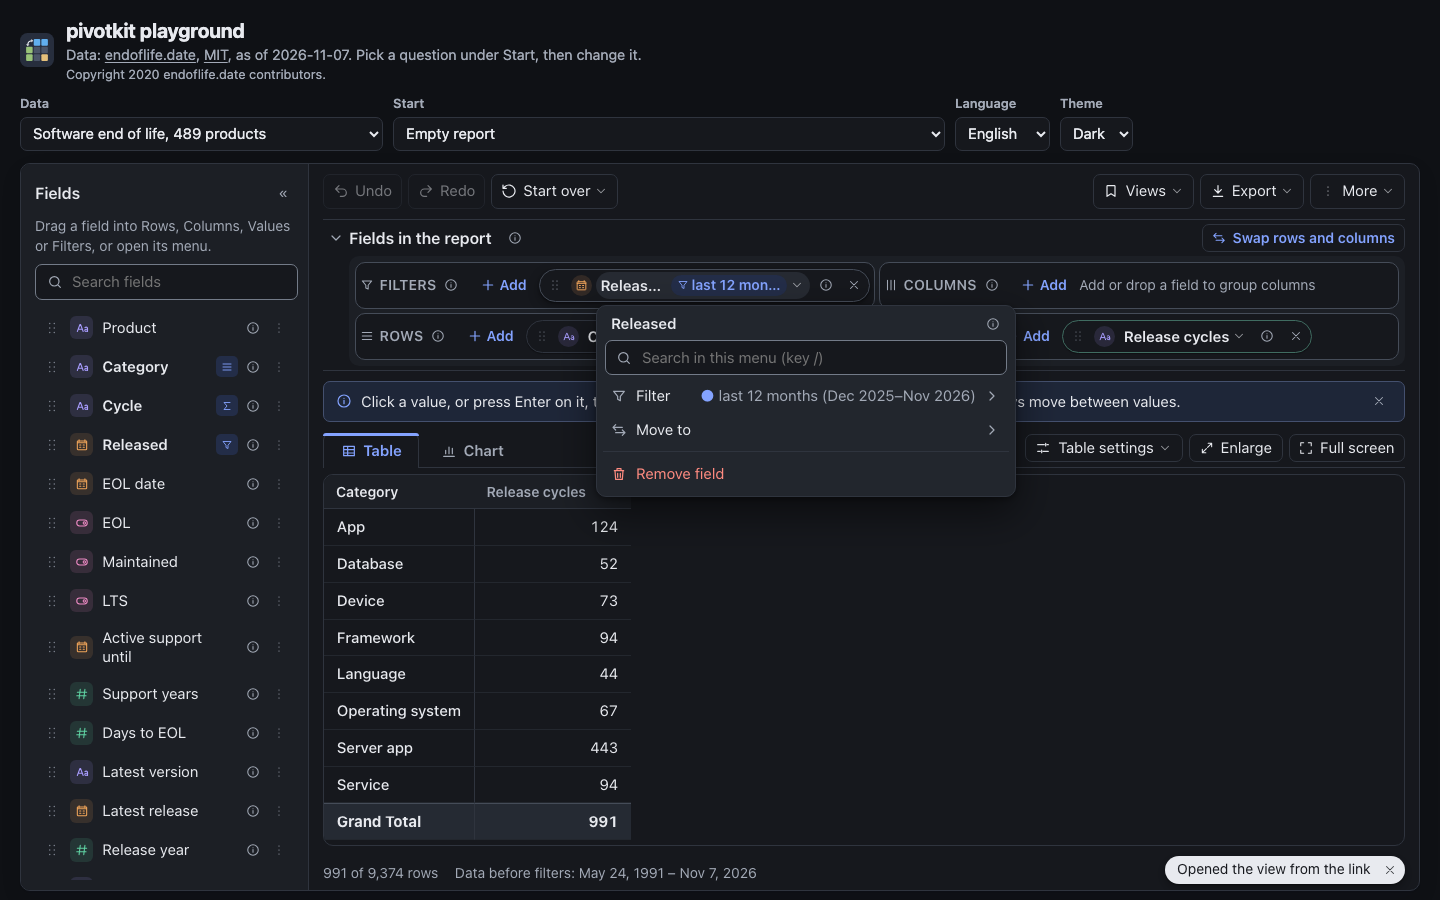
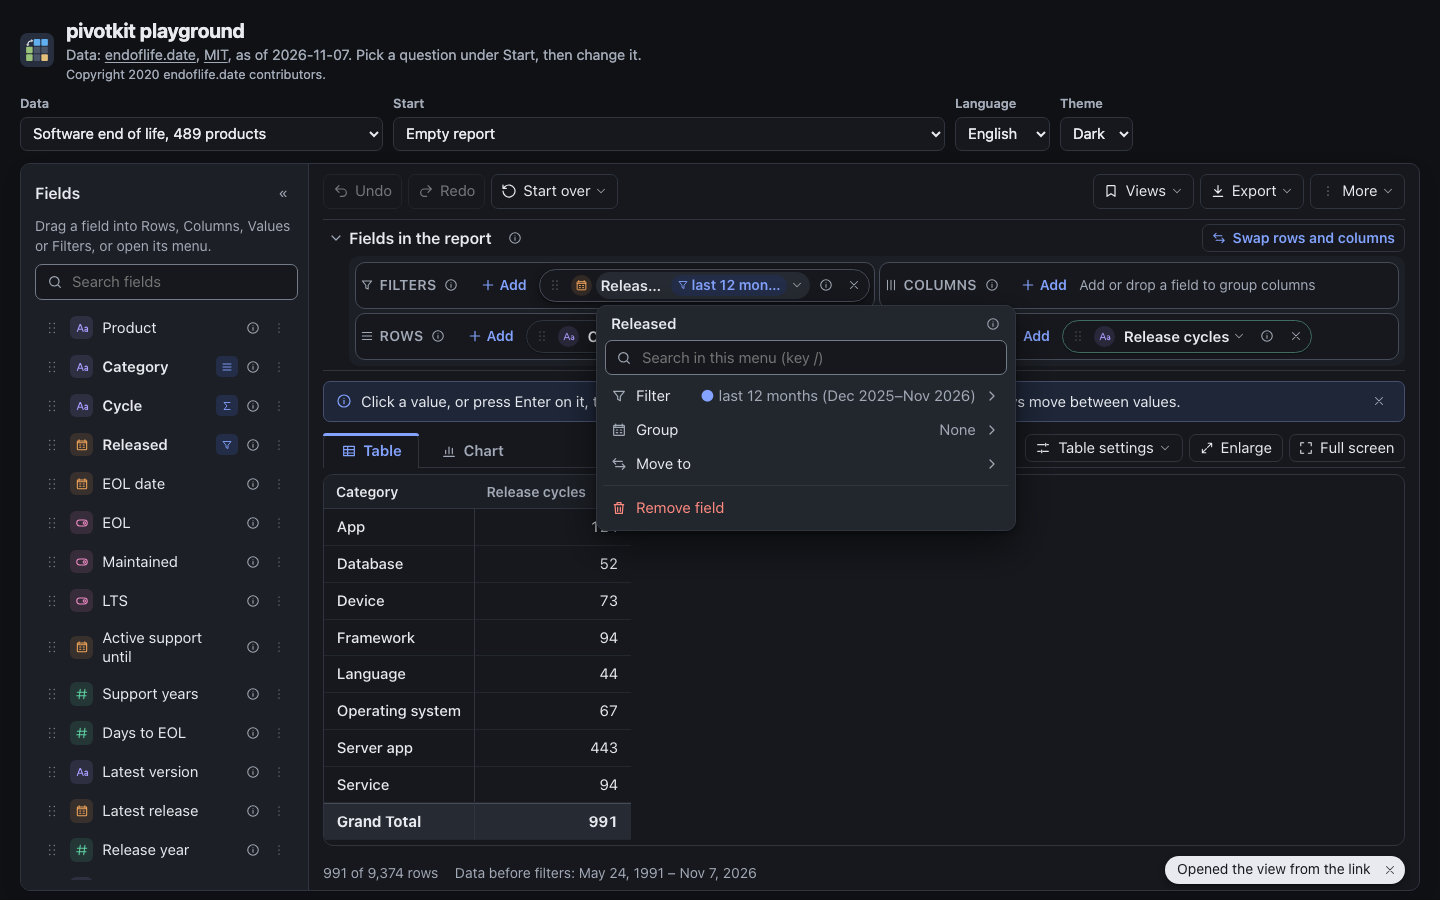
feat(react): group a date in the Filters zone from its chip's menu (#690)
* feat(react): a date in Filters can be grouped from its chip's menu

The Filters zone's chip menu of a date offers Group, the same topic as on Rows and Columns (one
groupTopic for both). A unit puts the grouping in the date's place among the Filters, with an
empty pick (groupField keeps the place). Docs: filters.md, the year steps in values.md, the
filter-zone screenshot.

* fix(react): say that grouping clears a date's filter; no stray chip for a grouping already placed

Review findings: the Group level of a filtered date says that another grouping starts with every
item and Undo brings the filter back (en, de). A date in Filters grouped to a grouping the report
has already leaves no second pick behind. The menu tables in react.md and fields.md name Group.
The spec takes the step back with Undo.

---------

Changed region(s): [[0.4062, 0.4667, 0.7188, 0.5911], [0.6562, 0.4667, 0.6875, 0.4978]]

diff --git a/packages/pivotkit-react/src/menu-topics.js b/packages/pivotkit-react/src/menu-topics.js
@@ -13,7 +13,7 @@ import { fill, plural } from "./labels.js";
 import { dateRangeText, dateDisplayLocale } from "./date-context.js";
 import { calendarDays, groupHint, groupStats } from "./group-context.js";
 import { groupingName, refLabel, relativeText, sortText, valueLabels } from "./names.js";
-import { ZONES, dateSpan, filterZoneFields, filtersOf, groupField, groupingOf, hiddenAfter, moveField, numericResult, reorder, sameRef, setSort, sortEntry, sortOf, sourceOf } from "./view-ops.js";
+import { ZONES, dateSpan, filterZoneFields, filtersOf, groupField, groupingOf, hiddenAfter, isFiltered, moveField, numericResult, reorder, sameRef, setSort, sortEntry, sortOf, sourceOf } from "./view-ops.js";
 import { valueAddsUp } from "pivotkit-core";
 import { CHART_TYPES, SLICE_TYPES } from "./chart-types.js";
 import { TOTALS, filterState, keepsBlanks, measureChoices, quickChoice, ruleKind, setQuickRange, setRule, setTopFilter, totalNoEffect, updateValue, withMeasure } from "./menu-ops.js";
@@ -144,30 +144,7 @@ export function axisTopics({ view, zone, index, field, types, labels, locale, st
         filterTopic({ view, field, labels, locale, state, encoded })
     ];
     if (date) {
-        const stats = groupStats(encoded, source);
-        const span = stats?.span;
-        const dateLocale = dateDisplayLocale(view.formatting?.locale || locale);
-        const regroup = (unit) => () => {
-            const sourceName = fieldLabel(source, labels.core);
-            const grouped = unit ? groupingName(sourceName, unit, labels) : null;
-            return { view: groupField(view, field, unit, { name: grouped ?? undefined }).view, note: { step: "group", field: sourceName } };
-        };
-        // the field is replaced by its grouping (another chip): the menu closes
-        const unit = (u) => ({ id: `group-${u}`, text: labels.units[u] ?? u, hint: groupHint(encoded, source, u, dateLocale, labels, stats), checked: grouping?.by === u, closes: true, change: regroup(u) });
-        topics.push({
-            id: "group",
-            intro: span ? fill(plural(labels.groupDataRange, calendarDays(span), {lang: labels.lang, locale: dateLocale}), { range: dateRangeText(span, dateLocale) }) : undefined,
-            title: labels.groupTopic,
-            kind: "menu",
-            icon: "date",
-            state: grouping ? labels.units[grouping.by] ?? grouping.by : labels.groupNoneShort,
-            changed: Boolean(grouping),
-            groups: [
-                { title: labels.groupTimeline, choices: CATALOG.timelineUnits.map(unit) },
-                { title: labels.groupCyclic, choices: CATALOG.cyclicUnits.map(unit) },
-                { choices: [{ id: "group-none", text: labels.groupNone, checked: !grouping, closes: true, change: regroup(null) }] }
-            ]
-        });
+        topics.push(groupTopic({ view, field, source, labels, locale, encoded }));
     } else if (sourceType === "number") {
         const bins = grouping?.by === "bin" ? grouping : null;
         topics.push({ id: "bins", title: labels.bins, kind: "panel", icon: "number", state: bins ? fill(labels.binsState, { size: number(bins.size), start: number(bins.origin ?? 0) }) : labels.off, changed: Boolean(bins) });
@@ -265,13 +242,53 @@ export function filterTopic({ view, field, labels, locale, state, encoded }) {
 }
 
 /**
- * The topics of a field's menu in Filters (the whole report): Filter, Move to.
+ * The Group topic of a date: its units along the time line and over the years, each with what it
+ * makes of the data (groupHint), and None. A unit replaces the field with its grouping, in Rows,
+ * Columns or Filters, in the same place (another chip: the menu closes).
+ * @param {{ view: any, field: string, source: string, labels: any, locale: string, encoded?: any }} input
+ * @returns {Topic}
+ */
+function groupTopic({ view, field, source, labels, locale, encoded }) {
+    const grouping = groupingOf(view, field);
+    const stats = groupStats(encoded, source);
+    const span = stats?.span;
+    const dateLocale = dateDisplayLocale(view.formatting?.locale || locale);
+    const regroup = (unit) => () => {
+        const sourceName = fieldLabel(source, labels.core);
+        const grouped = unit ? groupingName(sourceName, unit, labels) : null;
+        return { view: groupField(view, field, unit, { name: grouped ?? undefined }).view, note: { step: "group", field: sourceName } };
+    };
+    const unit = (u) => ({ id: `group-${u}`, text: labels.units[u] ?? u, hint: groupHint(encoded, source, u, dateLocale, labels, stats), checked: grouping?.by === u, closes: true, change: regroup(u) });
+    return {
+        id: "group",
+        // the data's range, and for a filtered field that another grouping clears the filter
+        intro: [span ? fill(plural(labels.groupDataRange, calendarDays(span), { lang: labels.lang, locale: dateLocale }), { range: dateRangeText(span, dateLocale) }) : "", isFiltered(view, field) ? labels.groupClearsFilter : ""].filter(Boolean).join(" ") || undefined,
+        title: labels.groupTopic,
+        kind: "menu",
+        icon: "date",
+        state: grouping ? labels.units[grouping.by] ?? grouping.by : labels.groupNoneShort,
+        changed: Boolean(grouping),
+        groups: [
+            { title: labels.groupTimeline, choices: CATALOG.timelineUnits.map(unit) },
+            { title: labels.groupCyclic, choices: CATALOG.cyclicUnits.map(unit) },
+            { choices: [{ id: "group-none", text: labels.groupNone, checked: !grouping, closes: true, change: regroup(null) }] }
+        ]
+    };
+}
+
+/**
+ * The topics of a field's menu in Filters (the whole report): Filter, Group for a date, Move to.
  * @param {{ view: any, index: number, field: string, types: Map<string, string>, labels: any, locale: string, state?: any, encoded?: any }} input
  * @returns {Topic[]}
  */
 export function filterZoneTopics({ view, index, field, types, labels, locale, state, encoded }) {
-    const type = types.get(sourceOf(view, field).toLowerCase());
-    return [filterTopic({ view, field, labels, locale, state, encoded }), moveTopic(view, "filters", index, filterZoneFields(view).length, labels, fieldLabel(field, labels.core), type)];
+    const source = sourceOf(view, field);
+    const type = types.get(source.toLowerCase());
+    return [
+        filterTopic({ view, field, labels, locale, state, encoded }),
+        ...(type === "date" ? [groupTopic({ view, field, source, labels, locale, encoded })] : []),
+        moveTopic(view, "filters", index, filterZoneFields(view).length, labels, fieldLabel(field, labels.core), type)
+    ];
 }
 
 /**

diff --git a/packages/pivotkit-react/test/filter-rules.test.js b/packages/pivotkit-react/test/filter-rules.test.js
@@ -11,7 +11,7 @@ import { de as menuDe } from "../src/menu-labels-de.js";
 import { QUICK_UNITS, RULES_MAX, RULE_TYPES, filterState, keepsBlanks, rowsInRange, setRuleBlanks, setTopFilter, setLabelFilter, textOn, quickChoice, removeRules, resetFilter, ruleKind, ruleText, setAnchor, setItemFilter, setQuickRange, setRule, setYearsCombined, yearRules } from "../src/menu-ops.js";
 import { axisTopics, filterZoneTopics, searchEntries, searchHits } from "../src/menu-topics.js";
 import { compareText, itemRuleText, namedUntil, rangeShare, rangeText, relativeText } from "../src/names.js";
-import { addField, dateSpan, filtersOf, groupField } from "../src/view-ops.js";
+import { addField, dateSpan, filterZoneFields, filtersOf, groupField, selectedItems } from "../src/view-ops.js";
 
 const data = encode([
     { Region: "North", Units: 3, Price: 10, Released: "2019-05-01" },
@@ -318,13 +318,50 @@ test("search: quick choices with the count typed, a year compared, and the rules
     assert.equal(searchEntries(topics).some((e) => e.id.startsWith("quick-")), false);
 });
 
-test("the Filters zone's menu: Filter with its state, then Move to (no sort, grouping or Top items)", () => {
+test("the Filters zone's menu: Filter with its state, Group for a date, then Move to (no sort or Top items)", () => {
     const v = setQuickRange(addField(norm({}), "Released", "filters"), "Released", { unit: "year", count: 2 });
     const topics = filterZoneTopics({ view: v, index: 0, field: "Released", types, labels: MENU.en, locale: "en-US", state: { summary: null, rules: ["last 2 years"] }, encoded: data });
-    assert.deepEqual(topics.map((t) => t.id), ["filter", "move"]);
+    assert.deepEqual(topics.map((t) => t.id), ["filter", "group", "move"]);
     assert.equal(topics[0].state, "last 2 years");
     assert.equal(topics[0].changed, true);
-    assert.deepEqual(topics[1].groups[0].choices.map((c) => c.id), ["move-cols", "move-rows", "move-values"]);
+    assert.deepEqual(topics[2].groups[0].choices.map((c) => c.id), ["move-cols", "move-rows", "move-values"]);
+    // a text field in Filters: no Group
+    const text = filterZoneTopics({ view: addField(norm({}), "Region", "filters"), index: 0, field: "Region", types, labels: MENU.en, locale: "en-US", encoded: data });
+    assert.deepEqual(text.map((t) => t.id), ["filter", "move"]);
+});
+
+test("a date in Filters is grouped from its menu: the grouping takes its place among the Filters, its filter starts empty", () => {
+    let v = addField(addField(addField(norm({ rows: ["Region"] }), "Product", "filters"), "Released", "filters"), "Region", "filters");
+    v = setQuickRange(v, "Released", { unit: "year", count: 2 });
+    const at = (view) => filterZoneFields(view);
+    assert.deepEqual(at(v), ["Product", "Released", "Region"]);
+    const group = filterZoneTopics({ view: v, index: 1, field: "Released", types, labels: MENU.en, locale: "en-US", encoded: data }).find((t) => t.id === "group");
+    assert.equal(group.title, MENU.en.groupTopic);
+    assert.equal(group.state, MENU.en.groupNoneShort);
+    const year = group.groups.flatMap((g) => g.choices).find((c) => c.id === "group-year");
+    const { view: next, note } = year.change();
+    assert.deepEqual(at(next), ["Product", "Released by year", "Region"]);
+    assert.deepEqual(filtersOf(next, "Released", RULE_TYPES), []);
+    assert.equal(note.step, "group");
+    // grouped, its state says the unit, and None takes it back to the date
+    const again = filterZoneTopics({ view: next, index: 1, field: "Released by year", types, labels: MENU.en, locale: "en-US", encoded: data }).find((t) => t.id === "group");
+    assert.equal(again.state, MENU.en.units.year);
+    assert.deepEqual(at(again.groups.flatMap((g) => g.choices).find((c) => c.id === "group-none").change().view), ["Product", "Released", "Region"]);
+    // the grouping starts with an empty pick; the filtered date's menu said that it clears the filter
+    assert.deepEqual(filtersOf(next, "Released by year").map((f) => [f.type, f.items, f.not]), [["in", [], true]]);
+    assert.equal(group.intro.endsWith(MENU.en.groupClearsFilter), true);
+});
+
+test("a date in Filters grouped to a grouping the report has already: it goes there, no second chip or pick", () => {
+    // Released by year on Rows, filtered to 2025; the raw date in Filters
+    let v = addField(norm({ derived: [{ name: "Released by year", field: "Released", by: "year" }], rows: ["Released by year"] }), "Released", "filters");
+    v = setItemFilter(v, "Released by year", [2025], [2019, 2022, 2025]);
+    const group = filterZoneTopics({ view: v, index: 0, field: "Released", types, labels: MENU.en, locale: "en-US", encoded: data }).find((t) => t.id === "group");
+    const { view: next } = group.groups.flatMap((g) => g.choices).find((c) => c.id === "group-year").change();
+    assert.deepEqual(filterZoneFields(next), []);
+    assert.deepEqual(next.rows, ["Released by year"]);
+    assert.deepEqual(next.filters.map((f) => [f.field, f.type]), [["Released by year", "in"]]);
+    assert.deepEqual(selectedItems(next, "Released by year", [2019, 2022, 2025]), [2025]);
 });
 
 test("a rule on the names says its words as the others do; counts of one have their own words (en, de)", () => {

diff --git a/tests/browser/filter-zone-group.spec.js b/tests/browser/filter-zone-group.spec.js
@@ -1,0 +1,36 @@
+// A date in the Filters zone is grouped from its chip's menu (#100): Group offers the units, a unit
+// puts the grouping in the date's place among the Filters, and its Filter level then lists those
+// units' items (years, months), English and German.
+import { encodeViewLink } from "pivotkit-core/link";
+import { chipMenu, expect, test } from "./fixtures.js";
+
+/** The sales data with Month and Product in Filters, Region in Rows. */
+const VIEW = { rows: ["Region"], filters: [{ field: "Product", type: "in", items: [], not: true }, { field: "Month", type: "in", items: [], not: true }], values: [{ field: "Revenue", agg: "sum" }] };
+const filterChips = (page) => page.locator('[data-zone="filters"] .pk-chip').evaluateAll((els) => els.map((e) => e.getAttribute("data-chip")));
+
+for (const [lang, t] of [
+    ["en", { group: "Group", year: "Year", grouped: "Month by year" }],
+    ["de", { group: "Gruppieren", year: "Jahr", grouped: "Month nach Jahr" }]
+]) {
+    test(`${lang}: a date in Filters is grouped from its menu and keeps its place`, async ({ page }) => {
+        await page.goto(`?data=sales&lang=${lang}&empty#pivot-playground=${encodeViewLink(VIEW)}`);
+        await expect(page.getByTestId("pivot-table")).toBeVisible();
+        expect(await filterChips(page)).toEqual(["Product", "Month"]);
+        await chipMenu(page, "Month");
+        const menu = page.locator(".pk-chip-menu");
+        await expect(menu.getByTestId("topic-group")).toContainText(t.group);
+        await menu.getByTestId("topic-group").click();
+        await menu.getByRole("menuitemradio", { name: new RegExp(`^${t.year}\\b`) }).click();
+        // the menu closes: the grouping is another chip, in the date's place
+        await expect(page.locator(".pk-chip-menu")).toHaveCount(0);
+        expect(await filterChips(page)).toEqual(["Product", t.grouped]);
+        // its Filter level lists the years
+        await chipMenu(page, t.grouped, "filter");
+        await expect(page.locator(".pk-chip-menu .pk-values")).toContainText("2025");
+        await page.keyboard.press("Escape");
+        await page.keyboard.press("Escape");
+        // Undo brings the date back, in its place
+        await page.getByTestId("undo").click();
+        expect(await filterChips(page)).toEqual(["Product", "Month"]);
+    });
+}

diff --git a/packages/pivotkit-react/src/view-ops.js b/packages/pivotkit-react/src/view-ops.js
@@ -423,11 +423,15 @@ export function groupField(view, field, unit, options = {}) {
         }
     }
     if (!same(name, field)) {
-        // the old field's filters name values the new grouping does not have
+        // the old field's filters name values the new grouping does not have; in Filters the
+        // grouping takes the field's place, with an empty pick; a grouping that is in the report
+        // already (on Rows, Columns or in Filters) stays where it is, alone
         const inFilterZone = !axis && filterZoneFields(view).some((f) => same(f, field));
+        const placed = [...view.rows, ...view.cols, ...filterZoneFields(view)].some((f) => same(f, name));
+        const place = next.filters.findIndex((f) => same(f.field, field));
         next.filters = next.filters.filter((f) => !same(f.field, field));
-        if (inFilterZone) {
-            next.filters.push(emptyPick(name));
+        if (inFilterZone && !placed) {
+            next.filters.splice(place, 0, emptyPick(name));
         }
     }
     next.sort = next.sort.map((s) => (same(s.field, field) ? { ...s, field: name } : s));

diff --git a/packages/pivotkit-react/src/menu-labels.js b/packages/pivotkit-react/src/menu-labels.js
@@ -290,6 +290,8 @@ export const en = {
     groupNone: "No grouping (every date and time)",
     groupTimeline: "One item per period",
     groupCyclic: "Same period, years combined",
+    // under the range when the field is filtered: what a new grouping does to the filter
+    groupClearsFilter: "Another grouping starts with every item; Undo brings the filter back.",
     groupDataRange: {one: "Data before filters: {range} ({count} day)", other: "Data before filters: {range} ({count} days)"},
     groupYearsTogether: {one: "{count} year together", other: "{count} years together"},
     unitHints: {

diff --git a/packages/pivotkit-react/src/menu-labels-de.js b/packages/pivotkit-react/src/menu-labels-de.js
@@ -252,6 +252,7 @@ export const de = {
     groupNone: "Keine Gruppierung (jedes Datum mit Uhrzeit)",
     groupTimeline: "Ein Eintrag pro Zeitraum",
     groupCyclic: "Gleicher Zeitraum, Jahre zusammengefasst",
+    groupClearsFilter: "Eine andere Gruppierung beginnt mit allen Einträgen; Rückgängig holt den Filter zurück.",
     groupDataRange: {one: "Daten vor den Filtern: {range} ({count} Tag)", other: "Daten vor den Filtern: {range} ({count} Tage)"},
     groupYearsTogether: {one: "{count} Jahr zusammen", other: "{count} Jahre zusammen"},
     unitHints: {

diff --git a/packages/pivotkit-react/src/chip-menus.jsx b/packages/pivotkit-react/src/chip-menus.jsx
@@ -361,7 +361,7 @@ export function AxisMenu({ view, zone, index, field, types, labels, commit, clos
     );
 }
 
-/** The menu of a chip in Filters (the whole report): the same Filter level, Move to. */
+/** The menu of a chip in Filters (the whole report): the same Filter level, Group for a date, Move to. */
 export function FilterMenu({ view, index, field, types, labels, commit, close, onRemove, locale, info, state, encoded }) {
     const name = fieldLabel(field, labels.core);
     return (

diff --git a/docs/use/fields.md b/docs/use/fields.md
@@ -143,7 +143,7 @@ screen reader hears ", changed" after it.
 | --- | --- |
 | **Sort** | A to Z and Z to A side by side on the first level. For a date they read Oldest and Newest. While the field sorts by a value, the row says by which: "Largest Sum of Revenue first". |
 | Sort by value | With one value in the report: "Largest Sum of Revenue first" and "Smallest Sum of Revenue first" on the first level. With more values, or a custom order: a level **Sort by value**. It has a pair for each value that gives a number. When the field has a custom order, such as the seasons in the order of the year, it also has "Custom order" and "Custom order, reversed". See [sorting](filters.md#sorting). Its row names the sort in use. |
-| **Filter** | A level that starts with a summary of what shows. Then come, for a date, its quick choices, such as "Last 2 years". For a month-of-the-year grouping these are the years combined. Then the values to keep, and its rules as sentences with what each keeps: the item itself compared, its total compared, a rule on its name. See [filters](filters.md). Its row says what the filter keeps: "4 of 12", "last 2 years (2025; 2026 has no data)", "from 2022", "Sum of Revenue > 1,000". A chip in **Filters** has a menu of its own: Filter, Move to and Remove field. |
+| **Filter** | A level that starts with a summary of what shows. Then come, for a date, its quick choices, such as "Last 2 years". For a month-of-the-year grouping these are the years combined. Then the values to keep, and its rules as sentences with what each keeps: the item itself compared, its total compared, a rule on its name. See [filters](filters.md). Its row says what the filter keeps: "4 of 12", "last 2 years (2025; 2026 has no data)", "from 2022", "Sum of Revenue > 1,000". A chip in **Filters** has a menu of its own: Filter, Group for a date, Move to and Remove field. |
 | **Group** (dates) | A level with the data's range on top and three kinds of choice. One item per period: year, quarter, month, week, day. Same period, years combined: quarter, month, week of the year, weekday, hour. Or no grouping. See [dates](values.md#dates-and-number-ranges). |
 | **Number ranges** (numbers) | A level with the size of the ranges and where they start. See [ranges](values.md#number-ranges). |
 | **Top items** | A level: Off, Top 3, Top 5, Top 10, or **Top N…**. **Top N…** takes a count of your own, top or bottom, by a value you choose. See [top N](filters.md#top-n). |

diff --git a/docs/use/filters.md b/docs/use/filters.md
@@ -85,10 +85,13 @@ Details:
 ![A filtered field's menu: the Filter row says 1 of 5 with its dot](../assets/screenshots/filter-state-light.png#only-light)
 ![A filtered field's menu: the Filter row says 1 of 5 with its dot](../assets/screenshots/filter-state-dark.png#only-dark)
 
-A chip in **Filters** opens the same Filter level from its menu, with **Move to** and **Remove field**:
+A chip in **Filters** opens the same Filter level from its menu, with **Move to** and **Remove field**.
+A date there also has **Group**: a unit such as **Year** puts the grouping in its place, with every
+item kept. The date's filter goes with it, and the Group level says so while there is one. Undo
+brings it back. A grouping that is in the report already stays where it is.
 
-![The menu of Released in Filters: the Filter row says last 12 months with its months, then Move to and Remove field](../assets/screenshots/filter-zone-light.png#only-light)
-![The menu of Released in Filters: the Filter row says last 12 months with its months, then Move to and Remove field](../assets/screenshots/filter-zone-dark.png#only-dark)
+![The menu of Released in Filters: the Filter row says last 12 months with its months, then Group, Move to and Remove field](../assets/screenshots/filter-zone-light.png#only-light)
+![The menu of Released in Filters: the Filter row says last 12 months with its months, then Group, Move to and Remove field](../assets/screenshots/filter-zone-dark.png#only-dark)
 
 ### The summary
 

diff --git a/docs/use/values.md b/docs/use/values.md
@@ -265,15 +265,14 @@ With one item per period, the years 0–99 and dates before year 1 keep their ow
 
     **The same period of one year only** (Quarter of year on Columns, 2025 only).
 
-    1. Put the date on **Rows**, for example next to City, and group it by **Year**.
-    2. Open that chip's menu › **Move to** › **Move to Filters**. The chip moves to Filters as "Date
-       by year", with its years.
+    1. Add the date to **Filters**: **+ Add** next to Filters, or **Add to Filters** in the field's
+       menu in the field list.
+    2. Open its chip's menu › **Group** › **Year**. The chip becomes "Date by year", in the same
+       place.
     3. Open it › **Filter** and keep only 2025: **Only** next to 2025.
 
-    A chip in Filters has no Group level. A date you add to Filters straight from the field list is
-    grouped by the span of its dates, as on an axis. For three years that is by quarter, and you
-    could tick the four quarters of 2025 there. To filter by year, group the date on Rows or Columns
-    first and then move it.
+    A date you add to Filters is grouped by the span of its dates, as on an axis. For three years
+    that is by quarter. **Group** in its menu changes that, as on Rows and Columns.
 
     **Which years does the data cover?**
 

diff --git a/docs/reference/react.md b/docs/reference/react.md
@@ -1041,7 +1041,7 @@ applies.
 | Menu | First level | Levels |
 | --- | --- | --- |
 | A field on Rows or Columns | Sort (A to Z, Z to A side by side), sort by its one value, Filter, Top items, Move to, Remove field | Sort by value (two or more values, or a custom order), Filter, Group (dates), Number ranges (numbers), Top items, Move to |
-| A field in Filters | Filter, Move to, Remove field | Filter, Move to |
+| A field in Filters | Filter, Group (dates), Move to, Remove field | Filter, Group (dates), Move to |
 | A value | Summarize by, Show as, Number format, Highlight (side by side), Name, Move to, Remove field | Summarize by, Show as, Number format, Name, Move to |
 | Table settings | Totals, Rows (Expand all, Collapse all with what it keeps: "Show Region only") | |
 | Chart settings | the chart types, then Value labels, Legend, Title, Axis, Tooltip, Reference lines, Series, Layout | each Display topic. Layout ends with "Show each Country" and "Show Region only" |

diff --git a/packages/pivotkit-react/CHANGELOG.md b/packages/pivotkit-react/CHANGELOG.md
@@ -8,6 +8,9 @@ All notable changes to `pivotkit-react` are documented in this file. The format 
 
 ### Added
 
+- A date in Filters has **Group** in its chip's menu, as on Rows and Columns. A unit such as Year
+  puts the grouping in the date's place among the Filters, with every item kept
+  ([#100](https://github.com/eizedev/pivotkit/issues/100)).
 - Chart settings offers **Bars and lines** and **Treemap**. Bars and lines needs two fields in
   Values and says so. A treemap's labels take the token colour that reads on each tile
   ([chart types](https://pivotkit.eize.dev/use/charts/#chart-types), #518).
